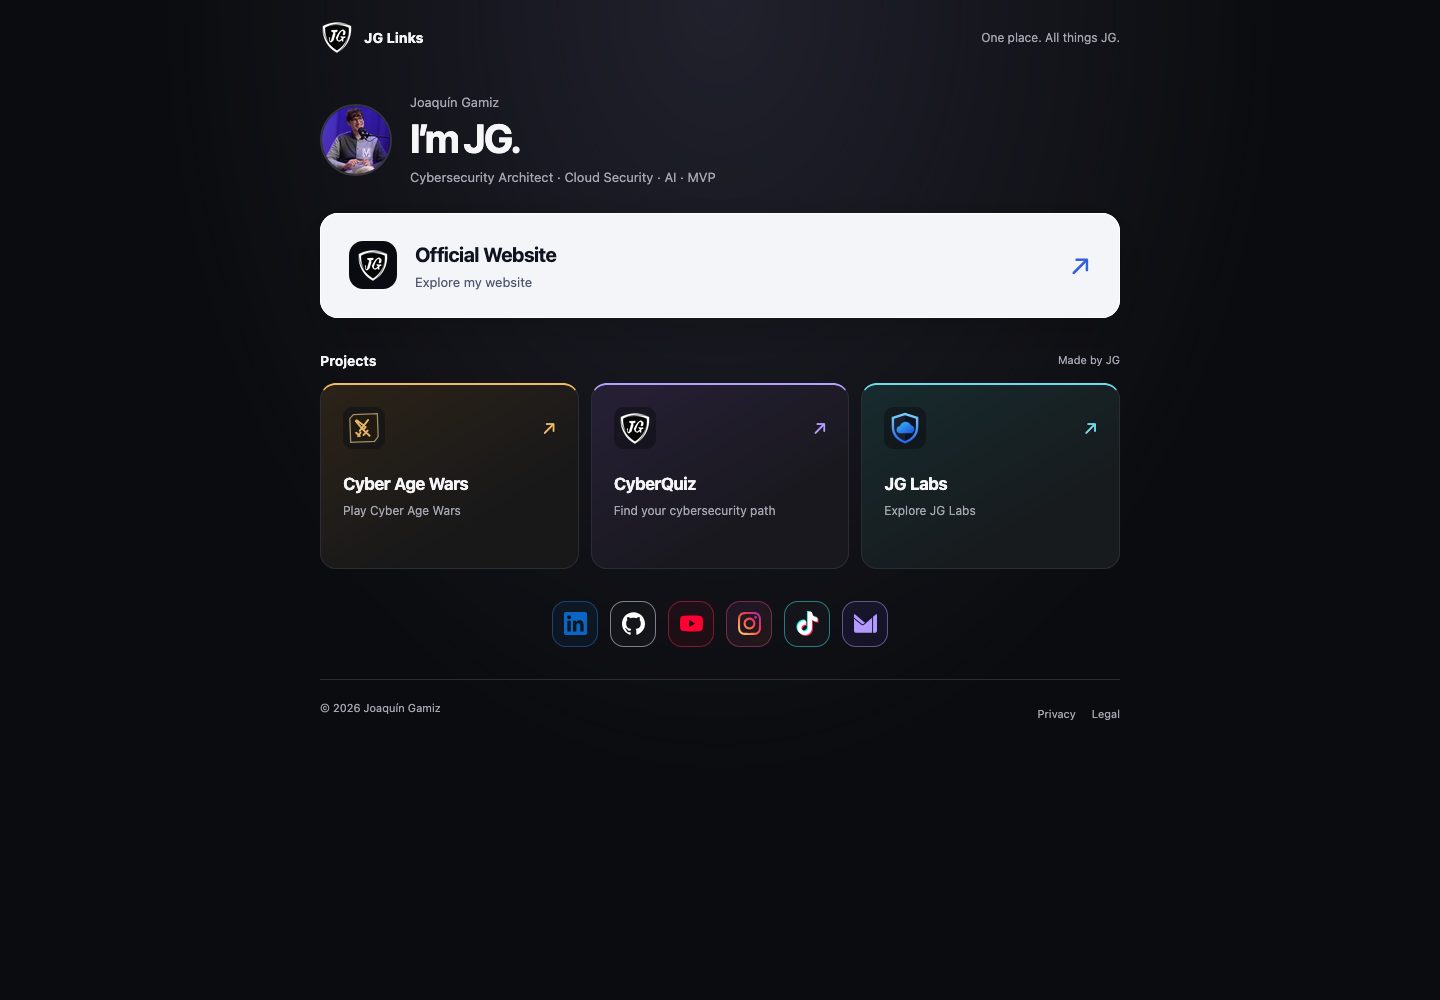
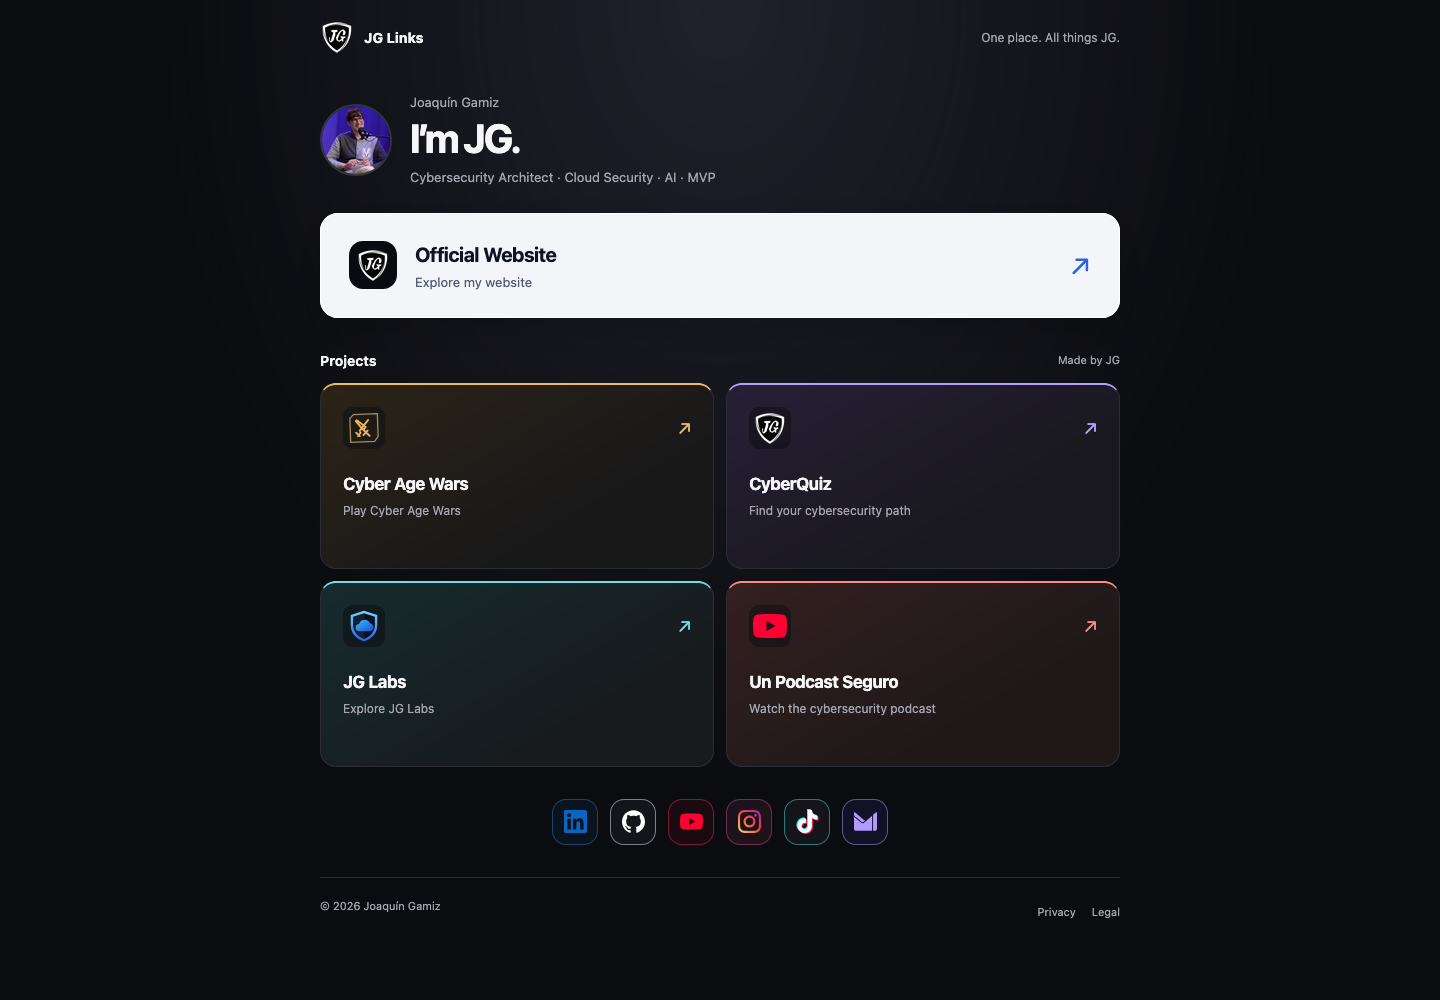
feat: add Un Podcast Seguro to project links

diff --git a/assets/css/main.css b/assets/css/main.css
@@ -44,12 +44,13 @@ h1 { margin: 0; font-size: clamp(32px, 6vw, 40px); line-height: 1.1; letter-spac
 .section-heading { display: flex; justify-content: space-between; align-items: center; margin-bottom: 12px; }
 .section-heading h2 { margin: 0; font-size: 14px; font-weight: 650; }
 .section-heading > span { color: var(--muted); font-size: 11px; }
-.project-grid { display: grid; grid-template-columns: repeat(3, minmax(0, 1fr)); gap: 12px; }
+.project-grid { display: grid; grid-template-columns: repeat(2, minmax(0, 1fr)); gap: 12px; }
 .project-card { --accent: #71dbea; display: flex; flex-direction: column; min-height: 186px; padding: 22px; border: 1px solid var(--line); border-top: 2px solid var(--accent); border-radius: 16px; background: var(--surface); transition: transform 180ms ease, border-color 180ms ease, background 180ms ease; }
 .project-card:hover { transform: translateY(-4px); border-color: var(--accent); background: #202128; }
 .project-cyber-age-wars { --accent: #efbb66; background: linear-gradient(150deg, #2c2318, #181819 70%); }
 .project-cyberquiz-start { --accent: #b6a0ff; background: linear-gradient(150deg, #262036, #19181e 70%); }
 .project-jg-labs { --accent: #71dbea; background: linear-gradient(150deg, #172b2e, #171b1e 70%); }
+.project-podcast { --accent: #ff8a83; background: linear-gradient(150deg, #342020, #1e1819 70%); }
 .project-top { display: flex; align-items: center; justify-content: space-between; color: var(--accent); margin-bottom: 22px; }
 .project-top > span:last-child { font-size: 18px; }
 .project-card strong { font-size: 17px; letter-spacing: -.025em; }

diff --git a/index.html b/index.html
@@ -17,7 +17,7 @@
   <meta name="twitter:card" content="summary_large_image">
   <title>JG Links · Cybersecurity, Cloud & AI</title>
   <link rel="icon" href="assets/images/jg-logo.png" type="image/png">
-  <link rel="stylesheet" href="assets/css/main.css?v=20382139d775">
+  <link rel="stylesheet" href="assets/css/main.css?v=06eeae105123">
   <script type="application/ld+json">
     {
       "@context": "https://schema.org",
@@ -69,6 +69,11 @@
     <span class="project-top"><span class="link-icon icon-jg-labs" aria-hidden="true"><img src="assets/icons/jg-labs.svg" alt="" width="32" height="32" decoding="async"></span><span aria-hidden="true">↗</span></span>
     <strong>JG Labs</strong>
     <span class="project-description">Explore JG Labs</span>
+  </a>
+<a class="project-card project-podcast" href="https://www.youtube.com/playlist?list=PLnuadL3Xteo2BlcWFfbl7-BiimziNkFkS" target="_blank" rel="noopener noreferrer" data-link-id="podcast">
+    <span class="project-top"><span class="link-icon icon-podcast" aria-hidden="true"><img src="assets/icons/youtube.svg" alt="" width="32" height="32" decoding="async"></span><span aria-hidden="true">↗</span></span>
+    <strong>Un Podcast Seguro</strong>
+    <span class="project-description">Watch the cybersecurity podcast</span>
   </a></div>
       </section>
       <nav class="social-row" aria-label="Find me online"><a class="social-pill" href="https://www.linkedin.com/in/joaquin-gamiz/" target="_blank" rel="noopener noreferrer" data-link-id="linkedin" aria-label="LinkedIn" title="LinkedIn">

diff --git a/docs/validation-report.md b/docs/validation-report.md
@@ -1,12 +1,12 @@
 # Validation report
 
-Date: 2026-11-16
+Date: 2026-11-17
 
 ## Approved structure
 
 - Short profile with the supplied portrait and shield.
 - Primary Official Website link.
-- Cyber Age Wars, CyberQuiz and JG Labs, in that order.
+- Cyber Age Wars, CyberQuiz, JG Labs and Un Podcast Seguro, in that order.
 - LinkedIn, GitHub, YouTube, Instagram, TikTok and email icons.
 - Minimal legal footer. No general directory or training section.
 
@@ -25,7 +25,8 @@ Date: 2026-11-16
 
 - `npm run check`: 26 tests passed; generated HTML is current and all resources in the three HTML files resolve.
 - Firefox screenshots reviewed at 1440 × 1000 and 390 × 844.
-- Desktop shows a three-column project grid. Mobile shows three compact rows.
+- Desktop shows a balanced two-column grid with four projects. Mobile shows four compact rows.
+- Un Podcast Seguro uses its existing YouTube playlist URL (HTTP 200), the YouTube brand logo and a coral accent.
 - All visible social links have accessible names. Keyboard focus and reduced-motion support remain present.
 - JG Labs responds HTTPS HTTP 200.
 - Brand logos replace generic link icons: project artwork comes from the project sites, and social glyphs from Simple Icons. Sources and licensing are recorded in `assets/icons/SOURCES.md`.
@@ -35,7 +36,7 @@ Date: 2026-11-16
 
 ## Configuration and release status
 
-- Repository implementation: compact profile correction complete on `codex/compact-profile-fix`.
+- Repository implementation: podcast addition complete on `codex/add-podcast-project`.
 - GitHub Pages URL and canonical: unchanged, `https://joaquingamiz.github.io/Links/`.
 - DNS / Cloudflare / Web-JG: unchanged.
 - Production release of this revision: pending PR integration and Pages deployment.

diff --git a/README.md b/README.md
@@ -2,7 +2,7 @@
 
 A compact English link landing for Joaquín Gamiz, hosted at [joaquingamiz.github.io/Links](https://joaquingamiz.github.io/Links/).
 
-The page contains a short personal introduction, a primary Official Website link, three projects (Cyber Age Wars, CyberQuiz and JG Labs), and social/contact icons. Charcoal surfaces, white typography and distinct project accents keep each destination easy to identify.
+The page contains a short personal introduction, a primary Official Website link, four projects (Cyber Age Wars, CyberQuiz, JG Labs and Un Podcast Seguro), and social/contact icons. Charcoal surfaces, white typography and distinct project accents keep each destination easy to identify.
 
 ## Updating destinations
 
